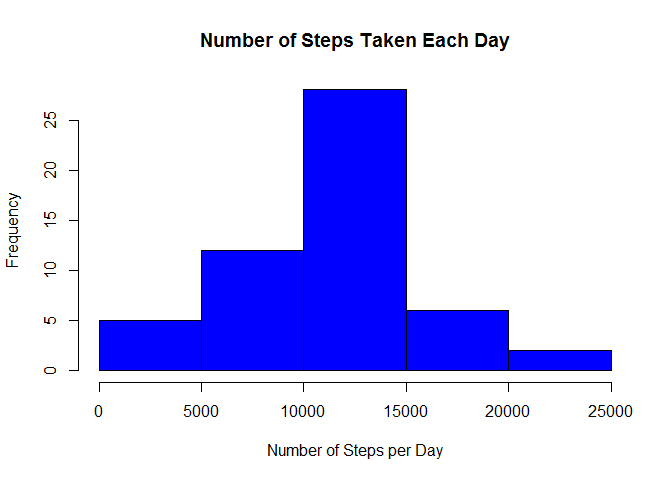
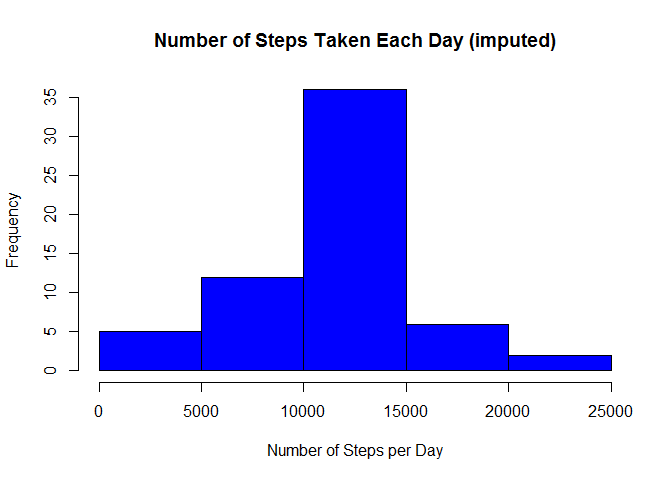
Change the Histogram Title

diff --git a/PA1_template.html b/PA1_template.html
@@ -217,8 +217,8 @@ activityDayI &lt;- group_by(activityImputed, date)
 #summarize this grouped table with the sum of steps for each day
 stepDayI &lt;- summarize(activityDayI, steps_by_day = sum(steps))
 #create the histogram
-hist(stepDay$steps_by_day, main=&quot;Number of Steps Taken Each Day&quot;, xlab=&quot;Number of Steps per Day&quot;, ylab=&quot;Frequency&quot;, col = &quot;blue&quot;)</code></pre>
[1 lines of base64/hex data omitted]
+hist(stepDayI$steps_by_day, main=&quot;Number of Steps Taken Each Day (imputed)&quot;, xlab=&quot;Number of Steps per Day&quot;, ylab=&quot;Frequency&quot;, col = &quot;blue&quot;)</code></pre>
[1 lines of base64/hex data omitted]
 </div>
 </div>
 <div id="are-there-differences-in-activity-patterns-between-weekdays-and-weekends" class="section level2">

diff --git a/PA1_template.md b/PA1_template.md
@@ -212,7 +212,7 @@ activityDayI <- group_by(activityImputed, date)
 #summarize this grouped table with the sum of steps for each day
 stepDayI <- summarize(activityDayI, steps_by_day = sum(steps))
 #create the histogram
-hist(stepDay$steps_by_day, main="Number of Steps Taken Each Day", xlab="Number of Steps per Day", ylab="Frequency", col = "blue")
+hist(stepDayI$steps_by_day, main="Number of Steps Taken Each Day (imputed)", xlab="Number of Steps per Day", ylab="Frequency", col = "blue")
 ```
 
 ![](PA1_template_files/figure-html/unnamed-chunk-11-1.png) 
